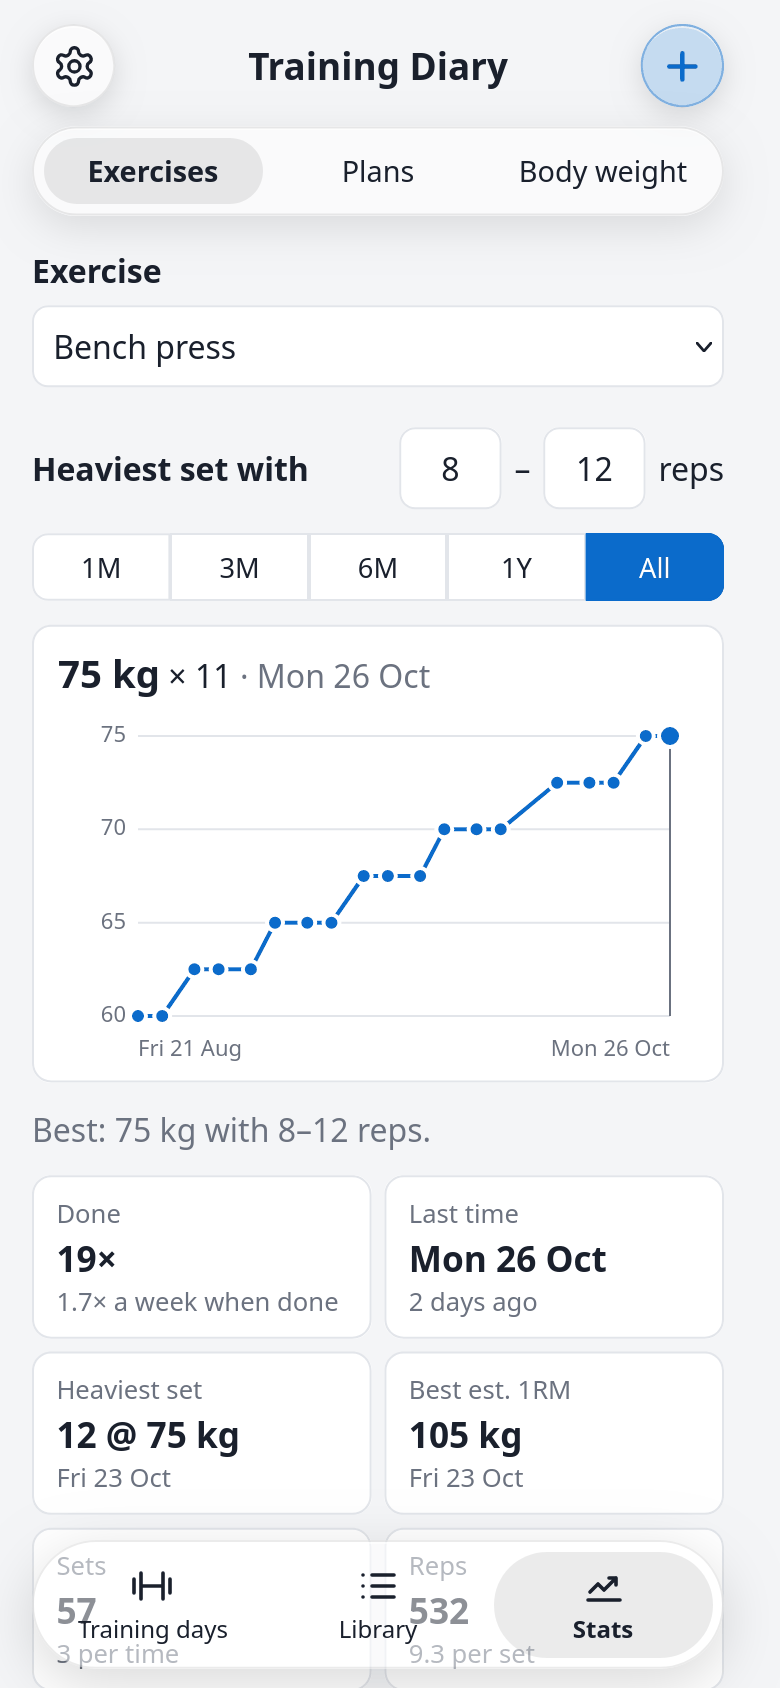
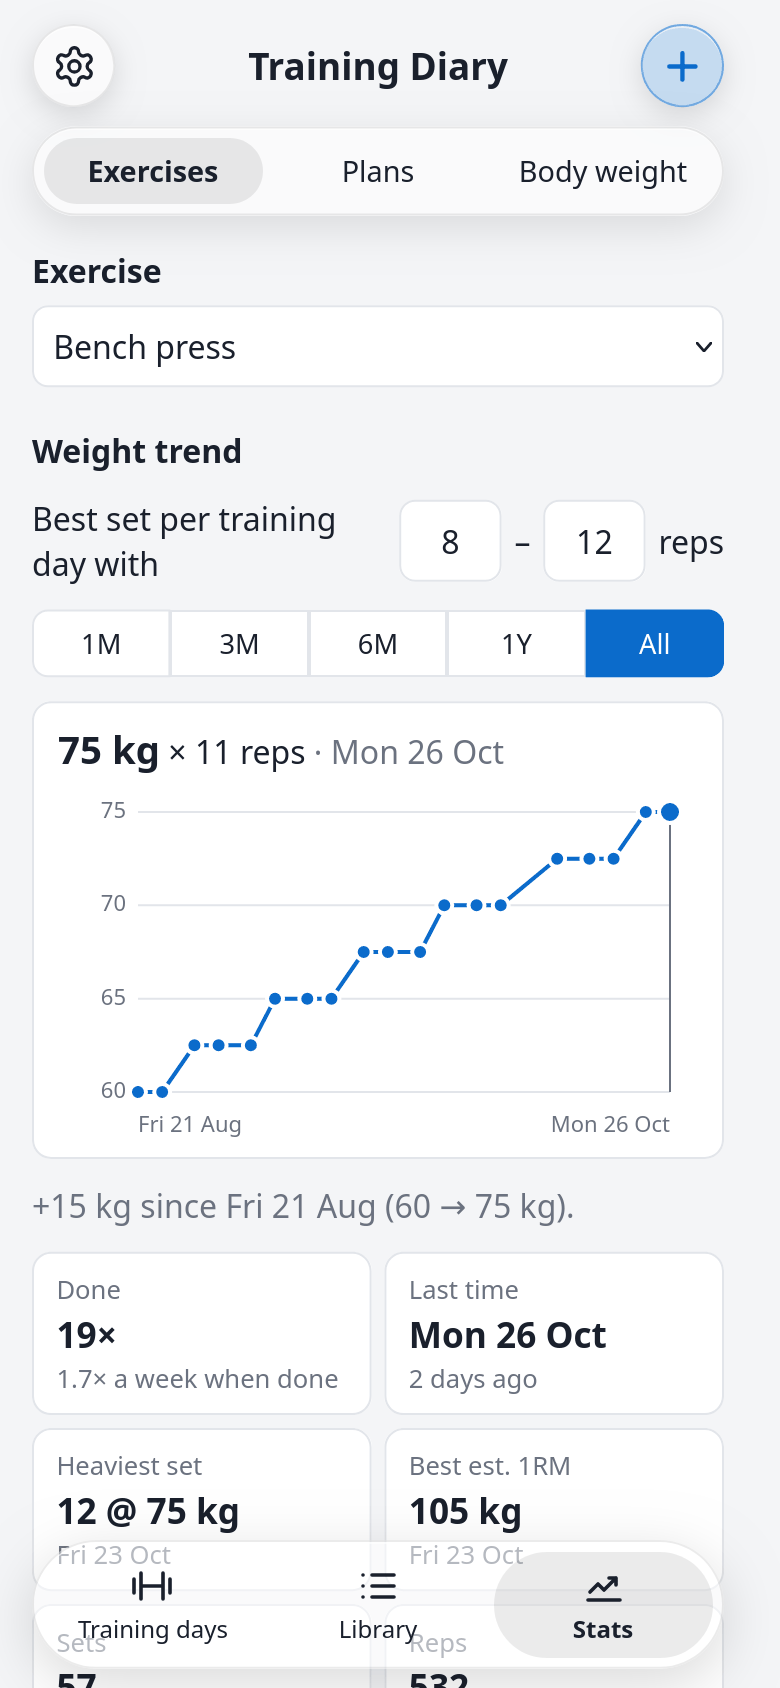
Exercise stats: show the weight trend within a rep range
The chart is titled "Weight trend": one point per training day at the
weight of its best set within the chosen rep range, over time. Below it,
the change over the time span replaces the best value, which read like a
single record.

diff --git a/src/components/ExerciseStatsScreen.tsx b/src/components/ExerciseStatsScreen.tsx
@@ -11,7 +11,7 @@ import {
   type Session,
   type Span,
 } from '../diary'
-import { daysAgo, formatDate, formatDecimal, formatKg, formatSet, formatVolume, summarizeSets } from '../ui/format'
+import { daysAgo, formatChange, formatDate, formatDecimal, formatKg, formatSet, formatVolume, summarizeSets } from '../ui/format'
 import { LineChart } from './LineChart'
 import { NumberField } from './NumberField'
 import { SpanPicker } from './SpanPicker'
@@ -30,9 +30,9 @@ interface ExerciseStatsScreenProps {
 }
 
 /**
- * One exercise's progress: the heaviest weight lifted for a chosen number of
- * reps over time (most reps for exercises without weight), totals and
- * records, and every session.
+ * One exercise's progress: its weight trend over time, one point per training
+ * day for the best set within a chosen rep range (most reps for exercises
+ * without weight), totals and records, and every session.
  */
 export function ExerciseStatsScreen({
   diary,
@@ -135,7 +135,10 @@ interface TrendProps {
   today: string
 }
 
-/** The chart with its controls: rep range (for weighted exercises) and time span. */
+/**
+ * The trend chart with its controls: rep range (for weighted exercises) and
+ * time span, and how much the weight changed over the span.
+ */
 function Trend({ sessions, bodyweightOnly, range, onRangeChange, span, onSpanChange, today }: TrendProps) {
   const lo = Math.min(range.min, range.max)
   const hi = Math.max(range.min, range.max)
@@ -143,31 +146,36 @@ function Trend({ sessions, bodyweightOnly, range, onRangeChange, span, onSpanCha
   const points = trend.map((p) =>
     bodyweightOnly
       ? { id: p.workoutId, date: p.date, value: p.set.reps }
-      : { id: p.workoutId, date: p.date, value: p.set.weight, detail: `× ${p.set.reps}` },
+      : { id: p.workoutId, date: p.date, value: p.set.weight, detail: `× ${p.set.reps} reps` },
   )
+  const first = points[0]
+  const last = points.at(-1)
 
   return (
     <>
       {bodyweightOnly ? (
         <h3 className="section-title">Most reps in a set</h3>
       ) : (
-        <div className="rep-range">
-          <h3 className="section-title">Heaviest set with</h3>
-          <NumberField
-            integer
-            label="Fewest reps"
-            value={range.min}
-            onChange={(min) => onRangeChange({ ...range, min: min ?? 0 })}
-          />
-          <span aria-hidden="true">–</span>
-          <NumberField
-            integer
-            label="Most reps"
-            value={range.max}
-            onChange={(max) => onRangeChange({ ...range, max: max ?? 0 })}
-          />
-          <span>reps</span>
-        </div>
+        <>
+          <h3 className="section-title">Weight trend</h3>
+          <div className="rep-range">
+            <span className="rep-range-label">Best set per training day with</span>
+            <NumberField
+              integer
+              label="Fewest reps"
+              value={range.min}
+              onChange={(min) => onRangeChange({ ...range, min: min ?? 0 })}
+            />
+            <span aria-hidden="true">–</span>
+            <NumberField
+              integer
+              label="Most reps"
+              value={range.max}
+              onChange={(max) => onRangeChange({ ...range, max: max ?? 0 })}
+            />
+            <span>reps</span>
+          </div>
+        </>
       )}
       <SpanPicker span={span} onChange={onSpanChange} />
       {points.length === 0 ? (
@@ -179,14 +187,14 @@ function Trend({ sessions, bodyweightOnly, range, onRangeChange, span, onSpanCha
       ) : (
         <LineChart
           points={points}
-          label={bodyweightOnly ? 'Most reps' : `Heaviest set with ${lo}–${hi} reps`}
+          label={bodyweightOnly ? 'Most reps' : `Weight trend, ${lo}–${hi} reps`}
           unit={bodyweightOnly ? 'reps' : 'kg'}
         />
       )}
-      {!bodyweightOnly && points.length > 0 && (
+      {!bodyweightOnly && first && last && first !== last && (
         <p className="notice">
-          Best: {formatKg(Math.max(...points.map((p) => p.value)))} kg with {lo}–{hi} reps
-          {span === 'all' ? '' : ' in this time span'}.
+          {formatChange(last.value - first.value)} since {formatDate(first.date)} ({formatKg(first.value)} →{' '}
+          {formatKg(last.value)} kg).
         </p>
       )}
     </>

diff --git a/src/App.test.tsx b/src/App.test.tsx
@@ -615,8 +615,10 @@ describe('stats', () => {
     // Starts with the exercise done most recently.
     const exercise = screen.getByRole('combobox', { name: 'Exercise' })
     expect(exercise).toHaveDisplayValue('Bench press')
-    expect(screen.getByRole('img', { name: 'Heaviest set with 8–12 reps over time, 2 values' })).toBeInTheDocument()
-    expect(screen.getByText('Best: 62.5 kg with 8–12 reps.')).toBeInTheDocument()
+    // One point per training day: its best set with 8–12 reps.
+    expect(screen.getByRole('img', { name: 'Weight trend, 8–12 reps over time, 2 values' })).toBeInTheDocument()
+    expect(screen.getByText('62.5 kg')).toBeInTheDocument() // the newest is selected
+    expect(screen.getByText('+2.5 kg since Tue 20 Oct (60 → 62.5 kg).')).toBeInTheDocument()
     expect(tile('Heaviest set')).toHaveTextContent('5 @ 70 kgMon 26 Oct')
     expect(tile('Done')).toHaveTextContent('2×')
     expect(screen.getByText('5 @ 70 kg, 9 @ 62.5 kg')).toBeInTheDocument() // history
@@ -625,7 +627,7 @@ describe('stats', () => {
     await user.type(screen.getByLabelText('Fewest reps'), '1')
     await user.clear(screen.getByLabelText('Most reps'))
     await user.type(screen.getByLabelText('Most reps'), '5')
-    expect(screen.getByRole('img', { name: 'Heaviest set with 1–5 reps over time, 1 values' })).toBeInTheDocument()
+    expect(screen.getByRole('img', { name: 'Weight trend, 1–5 reps over time, 1 values' })).toBeInTheDocument()
     await user.click(screen.getByRole('button', { name: '1M' }))
     expect(screen.getByRole('button', { name: '1M' })).toHaveAttribute('aria-pressed', 'true')
 

diff --git a/src/App.css b/src/App.css
@@ -998,15 +998,13 @@ textarea.text-input {
 .plan-stats .stat {
   background: var(--bg);
 }
-/* "Heaviest set with [8] – [12] reps" on one line. */
+/* "Best set per training day with [8] – [12] reps" on one line. */
 .rep-range {
   display: flex;
   align-items: center;
   gap: 0.4rem;
-  margin-top: 0.5rem;
 }
-.rep-range .section-title {
-  margin: 0;
+.rep-range-label {
   flex: 1;
 }
 .rep-range .number-input {

diff --git a/README.md b/README.md
@@ -11,7 +11,7 @@ device.
 <p>
   <img src="docs/screenshots/home.png" width="200" alt="Training days: tracked days newest first, one opened to show its exercises">
   <img src="docs/screenshots/tracking.png" width="200" alt="Tracking a Push day: sets of the bench press, pre-filled from last time">
-  <img src="docs/screenshots/stats-exercise.png" width="200" alt="Exercise stats: the bench press's heaviest set with 8 to 12 reps over time">
+  <img src="docs/screenshots/stats-exercise.png" width="200" alt="Exercise stats: the bench press's weight trend with 8 to 12 reps">
 </p>
 <p>
   <img src="docs/screenshots/stats-body-weight.png" width="200" alt="Body weight over three months with the 7-day average line">
@@ -129,8 +129,9 @@ The glass menu at the top switches between **Exercises** and **Plans**.
 The glass menu at the top switches between **Exercises**, **Plans** and **Body weight**.
 
 - **Exercises:** pick an exercise (deleted ones with tracked sets are listed too).
-  The chart shows the **heaviest set within a rep range** at every training day;
-  the range is yours to choose (8–12 reps to start with). Exercises done without
+  The chart shows its **weight trend** over time: one point per training day, at
+  the weight of the best set within a rep range you choose (8–12 reps to start
+  with), and how much it changed over the time span. Exercises done without
   weight chart their most reps per set instead. Below: how often it was done (and
   per week, in the weeks it was done), first and last time, heaviest set, best
   estimated one-rep max (Epley formula), total sets, reps and volume (weight × reps),
